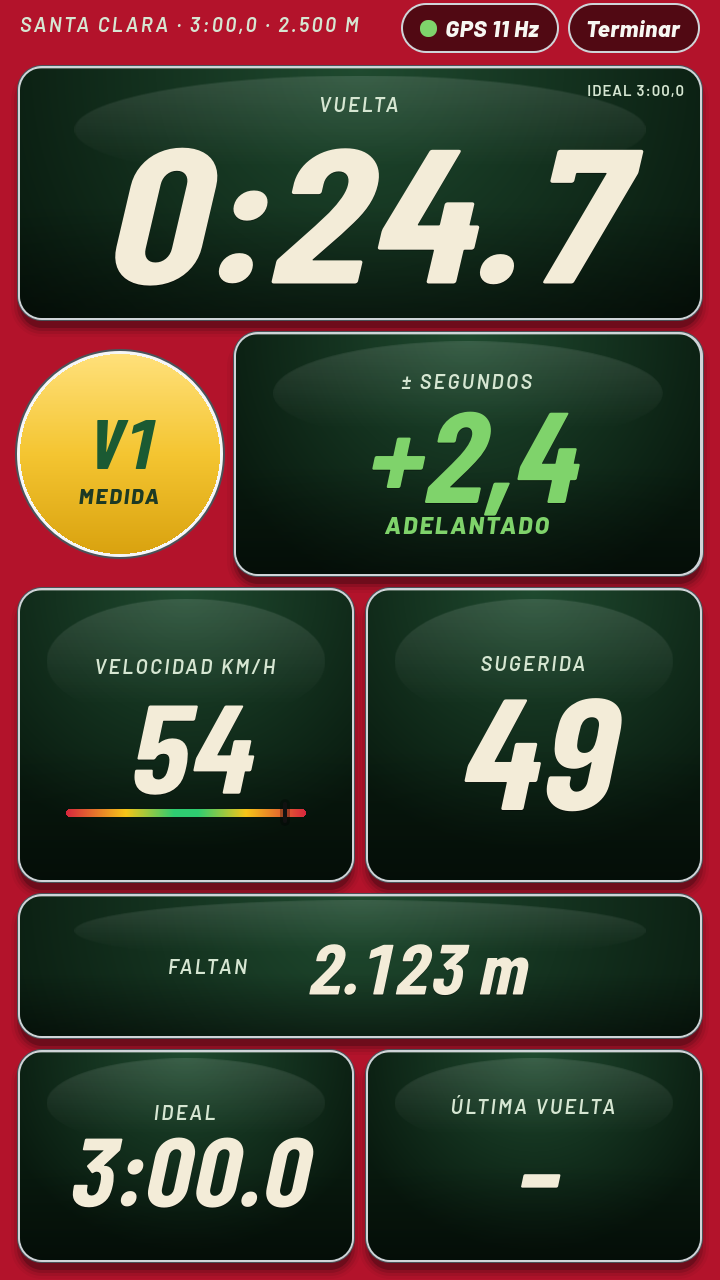
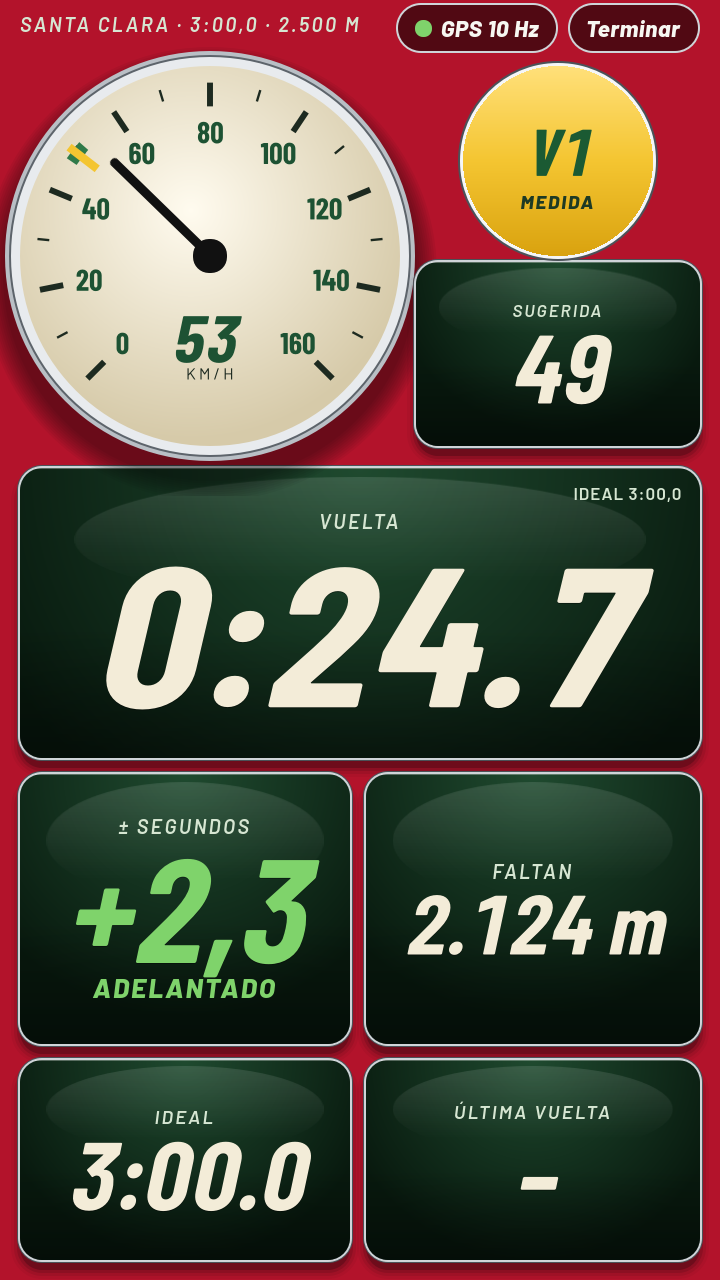
Pantalla sin MARCAR de pie: la propuesta 2 (con reloj) [skip ci]
Claude-Session: https://claude.ai/code/session_01Y6ZcPfifLiS94EmUV8jF5b

diff --git a/docs/plan-1.0.27.md b/docs/plan-1.0.27.md
@@ -46,7 +46,7 @@ capturas en Docker (`debian:trixie`, ver `raspios/compilar.sh`), commits `[skip 
       (prendida de fábrica). Apagada: sin botón; larga y marca solo el pulsador; **nada en pantalla como plan B**.
       Armado sin MARCAR (aprobado): [muestras/sin-marcar/](muestras/sin-marcar/) — acostada `horizontal.png`
       (cronómetro a todo el ancho con datos extra; V1, Ideal y ± segundos encima; abajo Velocidad, Sugerida,
-      Faltan y Última vuelta; **no cambiar nada**), de pie `vertical.png`. Medidas en `armado.json` (px). Guardarlo como
+      Faltan y Última vuelta; **no cambiar nada**), de pie `vertical.png` (la propuesta 2, con reloj). Medidas en `armado.json` (px). Guardarlo como
       segundo armado de fábrica (cfg `widgetsH`/`widgets` siguen siendo los del usuario; el «sin MARCAR» se usa
       cuando la llave está apagada y el usuario no armó uno propio).
 - [ ] **Tiempos con «:» en todos lados: `m:ss:d`** (Matías, opción A): ideal «3:00:0», cronómetro «0:24:8», tiempos de
